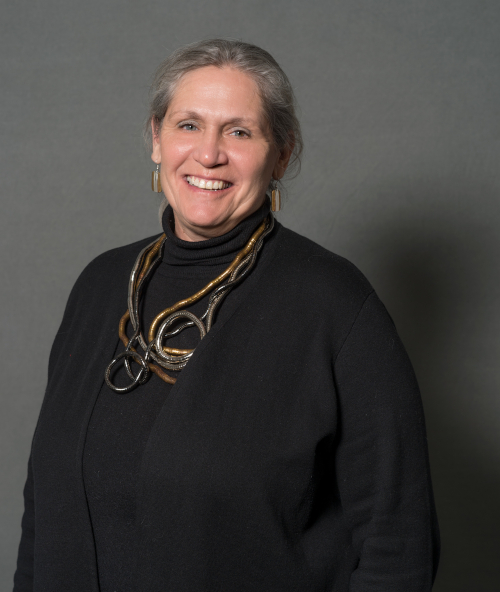
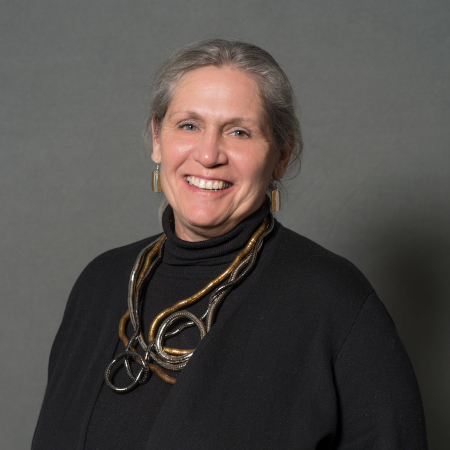
Image made rectangle

diff --git a/index.html b/index.html
@@ -4,7 +4,7 @@ title: Program
 ---
 
 <section class="container py-5">
-  <h1>FAB LIVE</h1>
+  <h1>FABx LIVE</h1>
   <div class="bg-blue d-inline-block text-white p-5 ml-5">
     <h3>JULY <br> 27-31</h3>
   </div>
@@ -16,15 +16,22 @@ title: Program
     <div class="row">
       <div class="col-lg-6">
         <p>
-        FABxLive 2020 is an online event that tackles the reality of a future happening now under global, economic, social and technological developments due to a Pandemic crisis known as a COVID-19 and how the Fab Lab Network as a global community moved forward and developed solutions that can drive a prospective scenario for our future resilience through distributed manufacturing and solidarity .  
+        FABxLive 2020 is an online event that tackles the reality of a future happening now under global, economic, social and technological
+        developments due to a Pandemic crisis known as a COVID-19 and how the Fab Lab Network as a global community moved forward and
+        developed solutions that can drive a prospective scenario for our future resilience through distributed manufacturing and solidarity.
         </p>
 
         <p>
-        In this special edition of the Fab Event International Conference, we will bring together members of the international Fab Lab Network, as well as government representatives, academic researchers and experts in the field of digital fabrication, to present, envision, discuss, and create a community around digital fabrication, manufacturing, technology, innovation and possible solutions on how to set the best principles and practices on digital fabrication.
+        In this special edition of the Fab Event International Conference, we will bring together members of the international
+        Fab Lab Network, as well as government representatives, academic researchers and experts in the field of digital fabrication,
+        to present, envision, discuss, and create a community around digital fabrication, manufacturing, technology, innovation and
+        possible solutions on how to set the best principles and practices on digital fabrication.
         </p>
 
         <p>
-        The event is open to the community for proposals to self organize sessions that can be debates, talks, webinars around COVID-19 local community response, rebooting economies, supporting communities, emergent futures and can be targeted to different time zones and all languages.
+        The event is open to the community for proposals to self organize sessions that can be debates, talks, webinars around COVID-19
+        local community response, rebooting economies, supporting communities, emergent futures and can be targeted to different time zones
+        and all languages.
         </p>
       </div>
       <div class="col-lg-6">
@@ -44,7 +51,8 @@ title: Program
           <h4>GLOBAL RESPONSE ON CORONAVIRUS</h4>
         </div>
         <p>
-        FABxLive 2020 is an online event that tackles the reality of a future happening now under global, economic, social and technological developments due to a Pandemic crisis known as a COVID-19 and how the Fab Lab Network as a global community
+        FABxLive 2020 is an online event that tackles the reality of a future happening now under global, economic, social and
+        technological developments due to a Pandemic crisis known as a COVID-19 and how the Fab Lab Network as a global community.
         </p>
       </div>
       <div class="col-md-6 col-xl-3 mb-4">
@@ -52,7 +60,8 @@ title: Program
         <h4>SUPPORTING COMMUNITIES</h4>
         </div>
         <p>
-        FABxLive 2020 is an online event that tackles the reality of a future happening now under global, economic, social and technological developments due to a Pandemic crisis known as a COVID-19 and how the Fab Lab Network as a global community
+        FABxLive 2020 is an online event that tackles the reality of a future happening now under global, economic, social and
+        technological developments due to a Pandemic crisis known as a COVID-19 and how the Fab Lab Network as a global community.
         </p>
       </div>
       <div class="col-md-6 col-xl-3 mb-4">
@@ -60,7 +69,8 @@ title: Program
           <h4>REBOOTING ECONOMIES</h4>
         </div>
         <p>
-        FABxLive 2020 is an online event that tackles the reality of a future happening now under global, economic, social and technological developments due to a Pandemic crisis known as a COVID-19 and how the Fab Lab Network as a global community
+        FABxLive 2020 is an online event that tackles the reality of a future happening now under global, economic, social and
+        technological developments due to a Pandemic crisis known as a COVID-19 and how the Fab Lab Network as a global community.
         </p>
       </div>
       <div class="col-md-6 col-xl-3 mb-4">
@@ -68,7 +78,8 @@ title: Program
           <h4>EMERGENT FUTURES</h4>
         </div>
         <p>
-        FABxLive 2020 is an online event that tackles the reality of a future happening now under global, economic, social and technological developments due to a Pandemic crisis known as a COVID-19 and how the Fab Lab Network as a global community
+        FABxLive 2020 is an online event that tackles the reality of a future happening now under global, economic, social and
+        technological developments due to a Pandemic crisis known as a COVID-19 and how the Fab Lab Network as a global community.
         </p>
       </div>
     </div>
@@ -91,7 +102,12 @@ title: Program
       </div>
       <div class="col-lg-6">
         <p>
-        FABX Events are a way to integrate all the knowledge acquired during the year of over more than 2,000 Fab Labs in the world. The participation for content is based on what active members propose. This is a space for networking among speakers, workshop leaders, and participants, and what they can make in this new world of digital fabrication. This is a space to brainstorm and share your projects, workshops, and ideas, and acknowledge that all the work will be seen and appreciated by everyone. Click the link above to apply for a theoretical workshop/working group, workshops and papers. Please note that anything you submit must be designed for an online format and online interaction, and you do have the option of pre-recording or leading something Live.
+        FABX Events are a way to integrate all the knowledge acquired during the year of over more than 2,000 Fab Labs in the world.
+        The participation for content is based on what active members propose. This is a space for networking among speakers, workshop
+        leaders, and participants, and what they can make in this new world of digital fabrication. This is a space to brainstorm and
+        share your projects, workshops, and ideas, and acknowledge that all the work will be seen and appreciated by everyone.
+        Click the link above to apply for a theoretical workshop/working group, workshops and papers. Please note that anything you submit
+        must be designed for an online format and online interaction, and you do have the option of pre-recording or leading something Live.
         </p>
 
         <p>
@@ -111,8 +127,8 @@ title: Program
     <div class="row">
 
       {% for item in site.speakers %}
-      <article class="col-lg-6 col-xl-3 text-center">
-        <img src="{{ item.picture | absolute_url }}" class="img-fluid circle" style="max-height:90px;" alt=""/>
+      <article class="col-md-6 col-lg-4 col-xl-3 text-center">
+        <img src="{{ item.picture | absolute_url }}" class="img-fluid circle" style="max-height:150px;" alt=""/>
         <p class="mt-1 font-weight-bold">{{item.name}}</p>
         <h6>{{item.institution}}</h6>
       </article>
@@ -128,10 +144,16 @@ title: Program
     <div class="row">
       <div class="col-md-6">
         <p>
-        FABxLive 2020 is an online event that tackles the reality of a future happening now under global, economic, social and technological developments due to a Pandemic crisis known as a COVID-19 and how the Fab Lab Network as a global community moved forward and developed solutions that can drive a prospective scenario for our future resilience through distributed manufacturing and solidarity .  
+        FABxLive 2020 is an online event that tackles the reality of a future happening now under global, economic, social and
+        technological developments due to a Pandemic crisis known as a COVID-19 and how the Fab Lab Network as a global
+        community moved forward and developed solutions that can drive a prospective scenario for our future resilience through
+        distributed manufacturing and solidarity.
         </p>
         <p>
-        In this special edition of the Fab Event International Conference, we will bring together members of the international Fab Lab Network, as well as government representatives, academic researchers and experts in the field of digital fabrication, to present, envision, discuss, and create a community around digital fabrication, manufacturing, technology, innovation and possible solutions on how to set the best principles and practices on digital fabrication.
+        In this special edition of the Fab Event International Conference, we will bring together members of the international
+        Fab Lab Network, as well as government representatives, academic researchers and experts in the field of digital
+        fabrication, to present, envision, discuss, and create a community around digital fabrication, manufacturing, technology,
+        innovation and possible solutions on how to set the best principles and practices on digital fabrication.
         </p>
         <div class="text-center">
           <a class="btn mx-auto bg-yellow shadow px-4" href="#" target="_blank">APPLY NOW</a>
